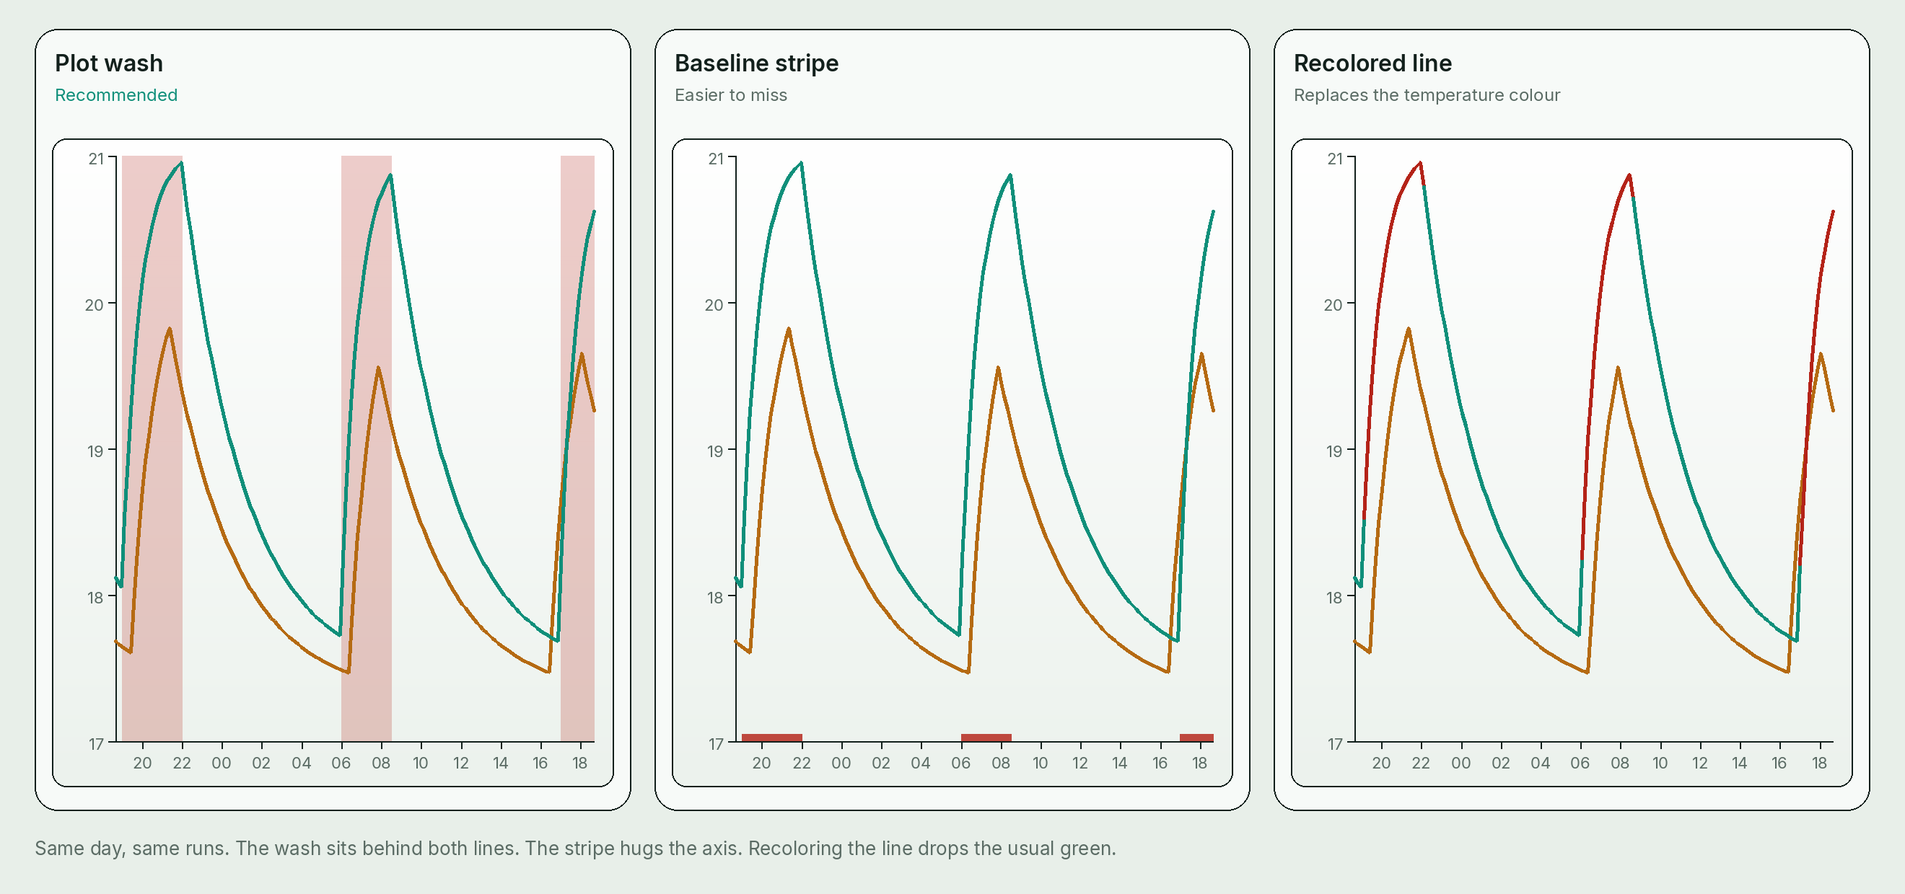
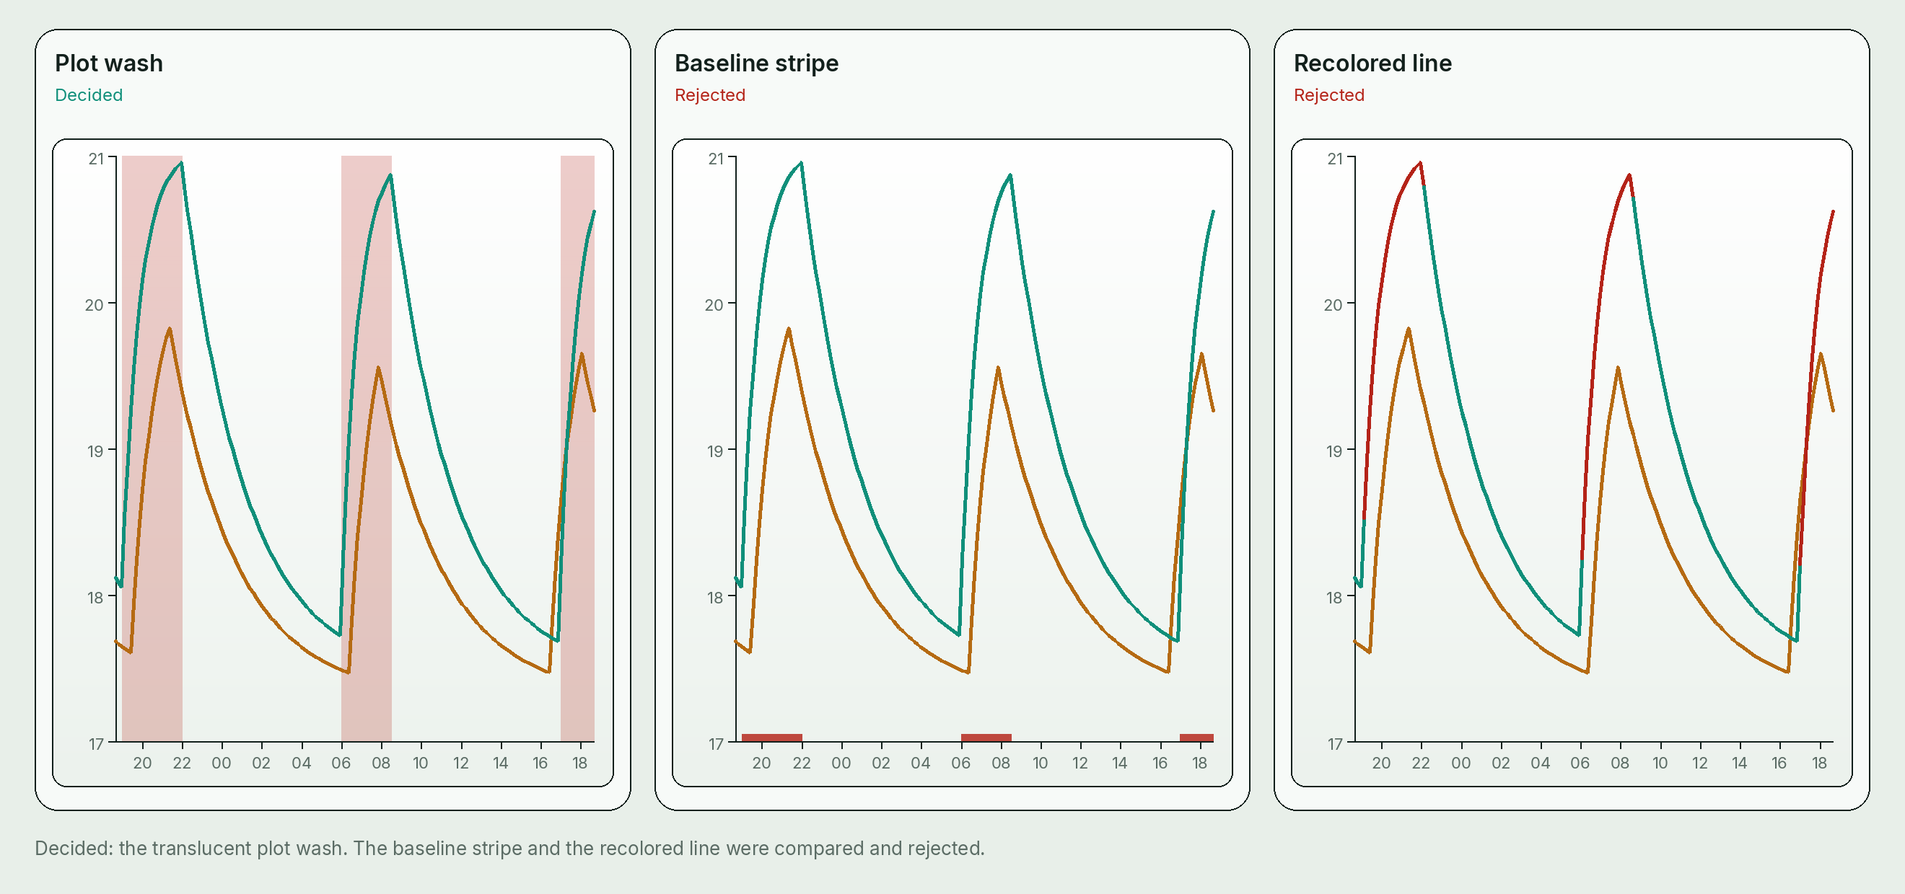
Record the decided heating-chart treatment
Close the open questions: HVAC HEATING on every room chart,
300-second samples, stored mode and setpoint, and the current
window's plot wash only.

diff --git a/Design/heating-running-indication.md b/Design/heating-running-indication.md
@@ -12,7 +12,7 @@ The charts below are mockups in the Monitor colors. Hall and Kitchen are stand-i
 
 ## Recommendation
 
-Paint a translucent red wash across the plot for each interval where the Nest HVAC status is `HEATING`. Draw it behind both temperature lines, on every room chart, for the current Daily or Weekly window only.
+Paint a translucent red wash across the plot for each interval where the Nest HVAC status is `HEATING`. That status is “actually running” for this house. Draw the wash behind both temperature lines, on every room chart, for the current Daily or Weekly window only. There is one thermostat, so every chart shares that one timeline. When “Previous period” is on, the wash stays, and it is still only this period’s heating.
 
 ![Two room charts with the same red heating washes behind the temperature lines](images/heating-bands-daily-light.png)
 
@@ -20,7 +20,7 @@ Paint a translucent red wash across the plot for each interval where the Nest HV
 
 ![A week of runs, still one wash per run](images/heating-bands-weekly-light.png)
 
-This is the stripe that fits the chart code. Each Monitor chart is one SVG. The plot already has a shared horizontal scale (time) and a vertical scale (degrees). A rectangle from the top of the plot to the baseline, in that x range, sits in the same coordinate system as the polyline. The line stays the usual green, so a room reading and a heating interval stay different marks. The amber previous-period line stays amber and does not grow a stripe of its own.
+This is the decided stripe. Each Monitor chart is one SVG. The plot already has a shared horizontal scale (time) and a vertical scale (degrees). A rectangle from the top of the plot to the baseline, in that x range, sits in the same coordinate system as the polyline. The line stays the usual green, so a room reading and a heating interval stay different marks. The amber previous-period line stays amber and does not grow a stripe of its own.
 
 Use the existing danger hue, at plot opacity rather than the pill opacity:
 
@@ -33,19 +33,19 @@ Light danger is `#b42318` and dark danger is `#ff7a6e` in `website3` `website/st
 
 The wash is a view of stored samples. It does not change the temperature points, and it is not the record the usage page should sum. See [What the chart leaves in place](#what-the-chart-leaves-in-place).
 
-## Options
+## Options compared
 
-![Plot wash, baseline stripe, and a recolored temperature line on the same day](images/heating-options-compare.png)
+The wash is the treatment. The other two were compared and rejected. The baseline stripe is not a fallback.
 
-| Treatment | What it does | Why it lands where it does |
+![Plot wash decided; baseline stripe and recolored line rejected](images/heating-options-compare.png)
+
+| Treatment | What it does | Decision |
 | --- | --- | --- |
-| Plot wash (recommended) | One translucent rect per run, full height of the plot, behind the lines | Same x scale as `drawTemperatureLine`. The green line and the amber overlay stay themselves. A run’s width is its duration, on both Daily and Weekly. |
-| Baseline stripe | A few pixels of solid red along the bottom of the plot | Literal and quiet. On this SVG the axis ticks hang 5px below the baseline and the night-time line often sits on that baseline, so the stripe collides with the line and is easy to miss on a week view. The middle panel of the comparison is that failure. |
-| Recolored line | The temperature polyline turns red while heating is on | Strongest “when”, and it throws away the live-green reading. Smoothing makes it worse: the Smoothed control averages temperature over 45 minutes (Daily) or 3 hours (Weekly), so a red segment would no longer match a single on/off sample. The line is also per room sensor; heating is not. |
+| Plot wash | One translucent rect per run, full height of the plot, behind the lines | Use this. Same x scale as `drawTemperatureLine`. The green line and the amber overlay stay themselves. A run’s width is its duration, on both Daily and Weekly. |
+| Baseline stripe | A few pixels of solid red along the bottom of the plot | Rejected. On this SVG the axis ticks hang 5px below the baseline and the night-time line often sits on that baseline, so the stripe collides with the line and is easy to miss on a week view. |
+| Recolored line | The temperature polyline turns red while heating is on | Rejected. It throws away the live-green reading. Smoothing makes it worse: the Smoothed control averages temperature over 45 minutes (Daily) or 3 hours (Weekly), so a red segment would no longer match a single on/off sample. The line is also per room sensor; heating is not. |
 
 Edge ticks at start and stop were set aside. They do not show duration, so the chart would no longer display the interval a usage total sums.
-
-If a real winter week feels too red, switch to the baseline stripe. Do not switch to recoloring the line.
 
 ## What the code does today
 
@@ -116,19 +116,19 @@ The code does not distinguish these. It records neither.
 
 The Nest device-type page linked from the existing Nest note documents two different traits. Both can appear on the GET the poller already makes. Only the second one means the equipment is on.
 
-| Meaning | Trait and values | In this repo today | Stripe |
+| Meaning | Trait and values | In this repo today | On the chart |
 | --- | --- | --- | --- |
-| Heat mode selected (“called for” as a mode) | `sdm.devices.traits.ThermostatMode.mode`: `HEAT`, `COOL`, `HEATCOOL`, `OFF` | Not parsed | No |
-| HVAC actually running | `sdm.devices.traits.ThermostatHvac.status`: `OFF`, `HEATING`, `COOLING` | Not parsed | `HEATING` only |
-| Target temperature | `sdm.devices.traits.ThermostatTemperatureSetpoint` (`heatCelsius` / `coolCelsius`) | Not parsed | No |
+| Heat mode selected (“called for” as a mode) | `sdm.devices.traits.ThermostatMode.mode`: `HEAT`, `COOL`, `HEATCOOL`, `OFF` | Not parsed | Stored as `mode`. Not drawn. |
+| HVAC actually running | `sdm.devices.traits.ThermostatHvac.status`: `OFF`, `HEATING`, `COOLING` | Not parsed | The wash is `HEATING` only. |
+| Requested temperature | `sdm.devices.traits.ThermostatTemperatureSetpoint` (`heatCelsius`, `coolCelsius`) | Not parsed | Stored when the GET includes the field. Not drawn. |
 
 Google’s HVAC trait notes that a mode change and the HVAC status change are separate events. The thermostat can delay the start to protect the equipment: `ThermostatMode` and `ThermostatTemperatureSetpoint` events arrive first, and `ThermostatHvac` follows when the system actually turns on. That note is about events. This poller does not subscribe to events, but a GET during the delay can still show `mode: HEAT` while `status` is `OFF`. Sources: [ThermostatHvac](https://developers.google.com/nest/device-access/traits/device/thermostat-hvac), [ThermostatMode](https://developers.google.com/nest/device-access/traits/device/thermostat-mode), [ThermostatTemperatureSetpoint](https://developers.google.com/nest/device-access/traits/device/thermostat-temperature-setpoint). A GET of the setpoint trait returns only the active mode’s `heatCelsius` and/or `coolCelsius`.
 
-`HEAT` can stay selected all winter while status is `OFF` most of the time. A stripe on mode would paint the chart red for the season. `HEATCOOL` does not say whether the equipment is heating or cooling. Setpoint versus ambient is a third signal the poller does not read, and the delay above is exactly why it is the wrong proxy for “running”.
+`HEAT` can stay selected all winter while status is `OFF` most of the time. A stripe on mode would paint the chart red for the season. `HEATCOOL` does not say whether the equipment is heating or cooling. Setpoint versus ambient is a third signal. The delay above is why it is the wrong proxy for “running”. Store the setpoint anyway, for the later usage page, and keep it off the chart.
 
 `COOLING` must not use the red wash. Keep the sample so a later change could show cooling. Do not draw it in this design.
 
-Nothing in either repo records a boiler flame, a heat-link relay, or OpenTherm modulation. `ThermostatHvac.status == HEATING` is the running signal the Nest GET already returns and the poller currently drops. If “actually running” for this house means the burner rather than the thermostat calling for heat, that sensor is not here. That is the gap to confirm before implementation.
+“Actually running” is `ThermostatHvac.status == HEATING`. The Nest GET already returns that trait, and the poller currently drops it. This house does not wait for a boiler-flame, heat-link, or OpenTherm sensor. None of those are in either repo, and none are required for the wash.
 
 ## What to record
 
@@ -141,22 +141,27 @@ A sample:
   "device_name": "Living Room Nest",
   "timestamp": { "$date": "2026-10-24T17:00:00.000Z" },
   "hvac_status": "HEATING",
-  "mode": "HEAT"
+  "mode": "HEAT",
+  "heat_celsius": 20.0
 }
 ```
 
 | Field | Source |
 | --- | --- |
-| `device_name` | Same `display_name()` as the Nest temperature row |
+| `device_name` | Same `display_name()` as the Nest temperature row. This house has one thermostat. |
 | `timestamp` | Same `Utc::now()` as that poll’s Nest `TemperatureData` |
 | `hvac_status` | `ThermostatHvac.status` (`OFF`, `HEATING`, `COOLING`) |
-| `mode` | `ThermostatMode.mode`, omitted when the trait is absent |
+| `mode` | `ThermostatMode.mode`, omitted when the trait is absent. Stored now. Not drawn. |
+| `heat_celsius` | `ThermostatTemperatureSetpoint.heatCelsius`, omitted when the GET does not include it. Stored now. Not drawn. |
+| `cool_celsius` | `ThermostatTemperatureSetpoint.coolCelsius`, omitted when the GET does not include it. Stored now. Not drawn. |
 
-Write one sample per thermostat per successful poll, including when status did not change. The 300-second heartbeat is what makes a gap mean “the poller missed”, rather than “status was steady”. Skip the thermostat when `ThermostatHvac` is absent. Do not invent `OFF`.
+A GET of the setpoint trait returns only the active mode’s targets: `heatCelsius` in `HEAT`, `coolCelsius` in `COOL`, and both in `HEATCOOL`. Omit a field the response did not include. Do not copy the other mode’s target forward from an older sample.
+
+Write one sample per successful poll, including when status did not change. The 300-second heartbeat is what makes a gap mean “the poller missed”, rather than “status was steady”. Skip the poll when `ThermostatHvac` is absent. Do not invent `OFF`. Samples about every 300 seconds are enough: a usual heating run is about 20 minutes, so a run spans several polls.
 
 Unique index: `{ device_name: 1, timestamp: -1 }`, matching `sensor_data`.
 
-Store `mode` now and do not draw it. A later usage page can compare time in `HEAT` with time in `HEATING` without a second migration. `mode` is not a definition of running. `HEATCOOL` still cannot separate heat demand from cool demand, because setpoints are not stored.
+`mode` and the setpoint fields are for the later usage page. They let that page compare time in `HEAT`, the requested temperature, and time in `HEATING` without another migration. They are not a definition of running. The wash still keys off `hvac_status == HEATING` only.
 
 Why a new collection, rather than an optional field on the Nest temperature row:
 
@@ -166,7 +171,7 @@ Why a new collection, rather than an optional field on the Nest temperature row:
 - Usage math wants intervals. Scanning `sensor_data` mixes Nest’s 5-minute rows with Hue’s much finer rows.
 - The Nest v1 note promised not to change the `sensor_data` shape. A sibling collection keeps that promise.
 
-Resolution limit, from the poll interval that exists today: a run that starts and ends inside one 300-second gap never appears. Transitions land on poll times, plus the HVAC delay Nest already documents. Do not infer the missing minutes from mode or from the temperature slope.
+Keep `POLL_INTERVAL_SECS` at 300. A usual run of about 20 minutes is several samples, which is enough for the wash and for a later duration total. A run that starts and ends inside one 300-second gap still never appears, and transitions land on poll times, plus the HVAC delay Nest already documents. That limit is accepted. Do not infer the missing minutes from mode, from setpoint, or from the temperature slope. Do not speed the Nest poll for this feature.
 
 ### Payload the chart already polls
 
@@ -182,24 +187,21 @@ Extend `TimeseriesDataResponse` with a sibling of `data`. Old page script ignore
   ],
   "heating": {
     "sample_interval_secs": 300,
-    "sources": [
+    "device_name": "Living Room Nest",
+    "device_id": "living-room-nest",
+    "samples": [
       {
-        "device_name": "Living Room Nest",
-        "device_id": "living-room-nest",
-        "samples": [
-          {
-            "timestamp": "2026-10-24T17:00:00+00:00",
-            "hvac_status": "HEATING",
-            "mode": "HEAT"
-          }
-        ]
+        "timestamp": "2026-10-24T17:00:00+00:00",
+        "hvac_status": "HEATING",
+        "mode": "HEAT",
+        "heat_celsius": 20.0
       }
     ]
   }
 }
 ```
 
-`device_id` uses the same `lower().replace(" ", "-")` expression as `SensorDataMessage`. Query `heating_samples` with the same `since` expression the timeseries handler already uses (`now` minus 14 days), so both series cover the previous week. That `datetime.now()` is naive; stored timestamps are UTC. Copy the existing expression. Do not invent a second clock in this change.
+There is one thermostat, so `heating` is one series, not a list of sources to choose from. `device_id` uses the same `lower().replace(" ", "-")` expression as `SensorDataMessage`. The poller already loops every device of type `THERMOSTAT`; in this house that loop has one entry, and that entry is the timeline on every room chart. Query `heating_samples` with the same `since` expression the timeseries handler already uses (`now` minus 14 days), so both series cover the previous week. That `datetime.now()` is naive; stored timestamps are UTC. Copy the existing expression. Do not invent a second clock in this change.
 
 `sample_interval_secs` is the poll interval the writer used. The browser needs it for the gap rule below, and should not hardcode 300.
 
@@ -211,7 +213,7 @@ flowchart TB
   daily["Current daily window: rolling 24h ending now"]
   weekly["Current weekly window: rolling 7d ending now"]
   previous["Previous window: the equal span just before"]
-  stripes["Chart wash: HEATING runs clipped to the current window"]
+  stripes["Chart wash: this period's HEATING only. Previous period's heating is not drawn."]
   totals["Later usage totals: the same clip, plus the previous window as a number"]
 
   fetch --> daily
@@ -250,15 +252,15 @@ flowchart LR
 
 Do not run heating samples through `smoothTemperatureSeries` or `alignPreviousPeriodData`. Smoothing would average a boolean. The overlay shift would paint yesterday’s runs on today’s clock.
 
-Previous-period heating stays in the payload (the 14-day fetch already holds it) and is not drawn. The amber line is yesterday’s temperature moved onto today’s axis. The wash belongs to the axis of the current window. While “Previous period” is on, a wash at 07:00 means heating was running at 07:00 in this window. The amber point at that x is the previous window’s temperature. It does not mean the heating was on yesterday at 07:00.
+Previous-period heating stays in the payload (the 14-day fetch already holds it) and is not drawn. That is decided: when “Previous period” is on, keep the wash visible, and draw only this period’s heating. The amber line is the previous window’s temperature moved onto today’s axis. The wash belongs to the axis of the current window. A wash at 07:00 means heating was running at 07:00 in this window. The amber point at that x is the previous window’s temperature. Yesterday’s heating is a total on the later page, not a second wash.
 
 ## How to draw it
 
 In both `drawChart` and `updateChart`, after `drawGrid` and before `drawTemperature`:
 
 1. Remove `#heating-bands-{device_id}` if it exists.
-2. Choose the source: no sources, draw nothing; one source, use it on every chart; more than one source, use a source only on the chart with the same `device_id`.
-3. Build runs with the rule above, clipped to `getPeriodBounds(chartPeriod, 0)`.
+2. If `heating` is missing or has no samples, draw nothing. Otherwise paint that one series on every room chart. Runs come from `hvac_status == HEATING` only. Ignore `mode`, `heat_celsius`, and `cool_celsius` while drawing.
+3. Build runs with the rule above, clipped to `getPeriodBounds(chartPeriod, 0)`. Do not clip to period offset 1, and do not shift those runs with `alignPreviousPeriodData`.
 4. Append a `<g class="heating-bands" id="heating-bands-{device_id}">` with one `<rect class="heating-band">` per run. Map x through the same matrix as the polyline. Y spans the plot from `minTemp` to `maxTemp` (the axis corners `drawGrid` already computes). Clip to that rectangle so the wash does not cover the degree labels.
 5. `pointer-events: none`. A `<title>Heating running</title>` on the group is the accessible name. Scrubbing keeps using polyline points, so the wash does not move the readout.
 
@@ -290,7 +292,7 @@ The chart should leave these untouched so a usage page can follow:
 | Leave this | Why the page needs it |
 | --- | --- |
 | `heating_samples` as heartbeats, not as the only stored form of a run | A change to the gap rule recomputes history. Edge rows alone hide a crash between on and off. |
-| `hvac_status` and `mode` on each sample | The page can later show running time and time-in-heat-mode from the same rows. The chart paints `HEATING` only. |
+| `hvac_status`, `mode`, `heat_celsius`, and `cool_celsius` on each sample | The page can later show running time, time in heat mode, and the requested temperature from the same rows. The chart paints `HEATING` only. |
 | The 14-day series on the timeseries payload, unclipped | The previous window is already loaded for the amber line. The page sums it. The chart does not have to draw it. |
 | `getPeriodBounds` and the run rule above | Daily, Weekly, and “previous” stay one definition. The page must not invent calendar days. |
 | Temperature points with no heating field copied onto them | Smoothing and the overlay shift stay temperature-only. |
@@ -305,31 +307,25 @@ The wash does not have to stay on screen for the page to work. The collection is
 ```mermaid
 flowchart TD
   draw["Draw a chart"]
-  field{"heating on the timeseries payload?"}
-  sources{"How many sources?"}
+  field{"heating samples on the timeseries payload?"}
   unchanged["No wash. Chart matches today."]
-  one["One source: paint it on every room chart"]
-  many["Several sources: paint each only on its own chart"]
-  runs{"Any HEATING run overlaps the current window?"}
+  runs{"Any HEATING run overlaps this period's window?"}
   quiet["No wash this window"]
-  paint["One rect per clipped run"]
+  paint["One rect per clipped run, on every room chart"]
   edge{"Newest sample is HEATING and younger than two intervals?"}
   toNow["The last run also extends to now"]
   capped["The last run ends one interval after its last HEATING sample"]
 
   draw --> field
   field -->|no| unchanged
-  field -->|yes| sources
-  sources -->|0| unchanged
-  sources -->|1| one --> runs
-  sources -->|more than 1| many --> runs
+  field -->|yes| runs
   runs -->|no| quiet
   runs -->|yes| paint --> edge
   edge -->|yes| toNow
   edge -->|no| capped
 ```
 
-“Previous period” and “Smoothed” do not change this diagram. They change the temperature lines only.
+“Previous period” and “Smoothed” do not change this diagram. Previous period draws the amber temperature line and leaves the wash on this period’s runs. Smoothed changes the temperature line only. Mode and setpoint never enter the diagram.
 
 ## Where a later change lands
 
@@ -337,7 +333,7 @@ This note does not change application code.
 
 | Repo | Later edit |
 | --- | --- |
-| rust-backend `models.rs` | Deserialize `ThermostatHvac` and `ThermostatMode`. Add the sample struct. |
+| rust-backend `models.rs` | Deserialize `ThermostatHvac`, `ThermostatMode`, and `ThermostatTemperatureSetpoint`. Add the sample struct. |
 | rust-backend `nest.rs` | On a successful poll, insert `heating_samples`. Keep writing `TemperatureData` as today. |
 | rust-backend `main.rs` | Create the `heating_samples` collection and its unique index. |
 | website3 `monitor/models.py` | Optional `heating` on `TimeseriesDataResponse`. |
@@ -350,17 +346,21 @@ The service worker already treats `/timeseries/` as live data and fetches it fro
 ## Out of scope
 
 - The usage popup’s route, layout, navigation, and any chart of its own.
-- Thermostat commands (`SetMode`, setpoint edits). Recording `mode` is not control.
-- Setpoints, Eco, and Pub/Sub. The poll stays a GET on the existing 300-second loop unless the poll interval is deliberately changed.
-- A blue cooling wash.
+- Thermostat commands (`SetMode`, setpoint edits). Recording `mode` and the setpoint fields is not control.
+- Eco and Pub/Sub. The poll stays a GET on the existing 300-second loop.
+- A blue cooling wash, a baseline stripe, and recoloring the temperature line.
+- Drawing the previous period’s heating, or hiding the wash while “Previous period” is on.
+- A boiler-flame or heat-link sensor.
 - Backfill before the first stored sample.
 - Changing Hue polling, `sensor_data`, or the Online / Offline pill.
 
-## Decisions still open
+## Decisions
 
-1. **Confirm the signal.** The stripe is `ThermostatHvac.status == HEATING`. That is “the thermostat is running heat”, which is the running signal this GET returns. It is not boiler flame. Say if this house needs a different sensor. Nothing in either repo records one.
-2. **One timeline on every room chart.** Recommended when there is a single thermostat. If more than one thermostat is polled, each stripe stays on that thermostat’s own chart until you pick the house source.
-3. **Five-minute samples.** `POLL_INTERVAL_SECS` is 300. Shorter runs can vanish. Say if the Nest poll should be faster when this is built. The original Nest note suggested 30–60 seconds; the code is 300.
-4. **Store `mode` on each sample now.** Recommended, and not drawn. It lets a later page compare heat mode with HVAC heating without another collection.
-5. **Keep the wash visible while “Previous period” is on.** Recommended. The wash follows the current window’s clock. The amber line does not get a stripe. Say if the wash should hide whenever the overlay is on.
-6. **Accept the plot wash.** Recommended over the baseline stripe and over recoloring the line. The baseline stripe is the fallback if a real week of washes feels too strong.
+These are closed.
+
+1. **Actually running** is Nest `ThermostatHvac.status == HEATING`. Do not wait for a boiler-flame sensor.
+2. **One thermostat.** Draw that one heating timeline on every room chart.
+3. **Samples about every 300 seconds are enough.** A usual heating run is about 20 minutes. Leave `POLL_INTERVAL_SECS` at 300.
+4. **Store `mode` now, and store the requested temperature when Nest provides it** (`heatCelsius` and/or `coolCelsius`). Neither is drawn.
+5. **When “Previous period” is on, keep the wash visible, and draw only this period’s heating.** Do not draw the previous period’s heating.
+6. **Use the translucent plot wash.** Do not use the baseline stripe.
